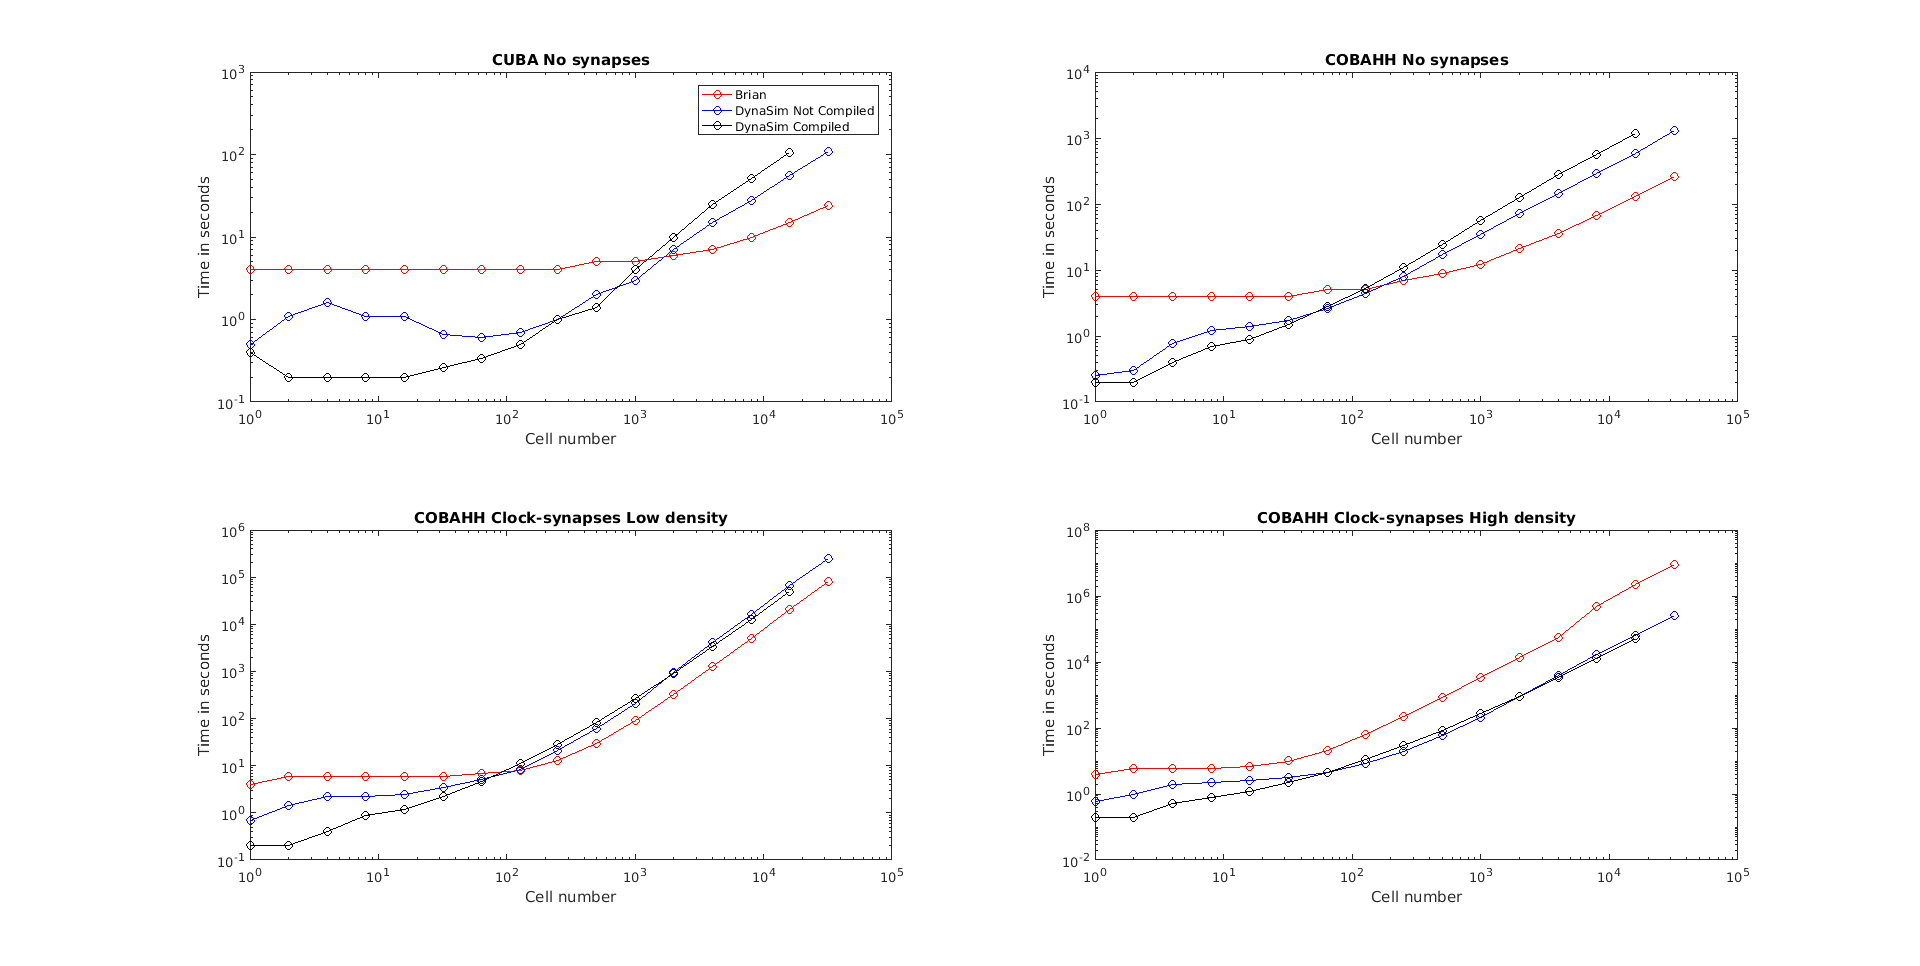
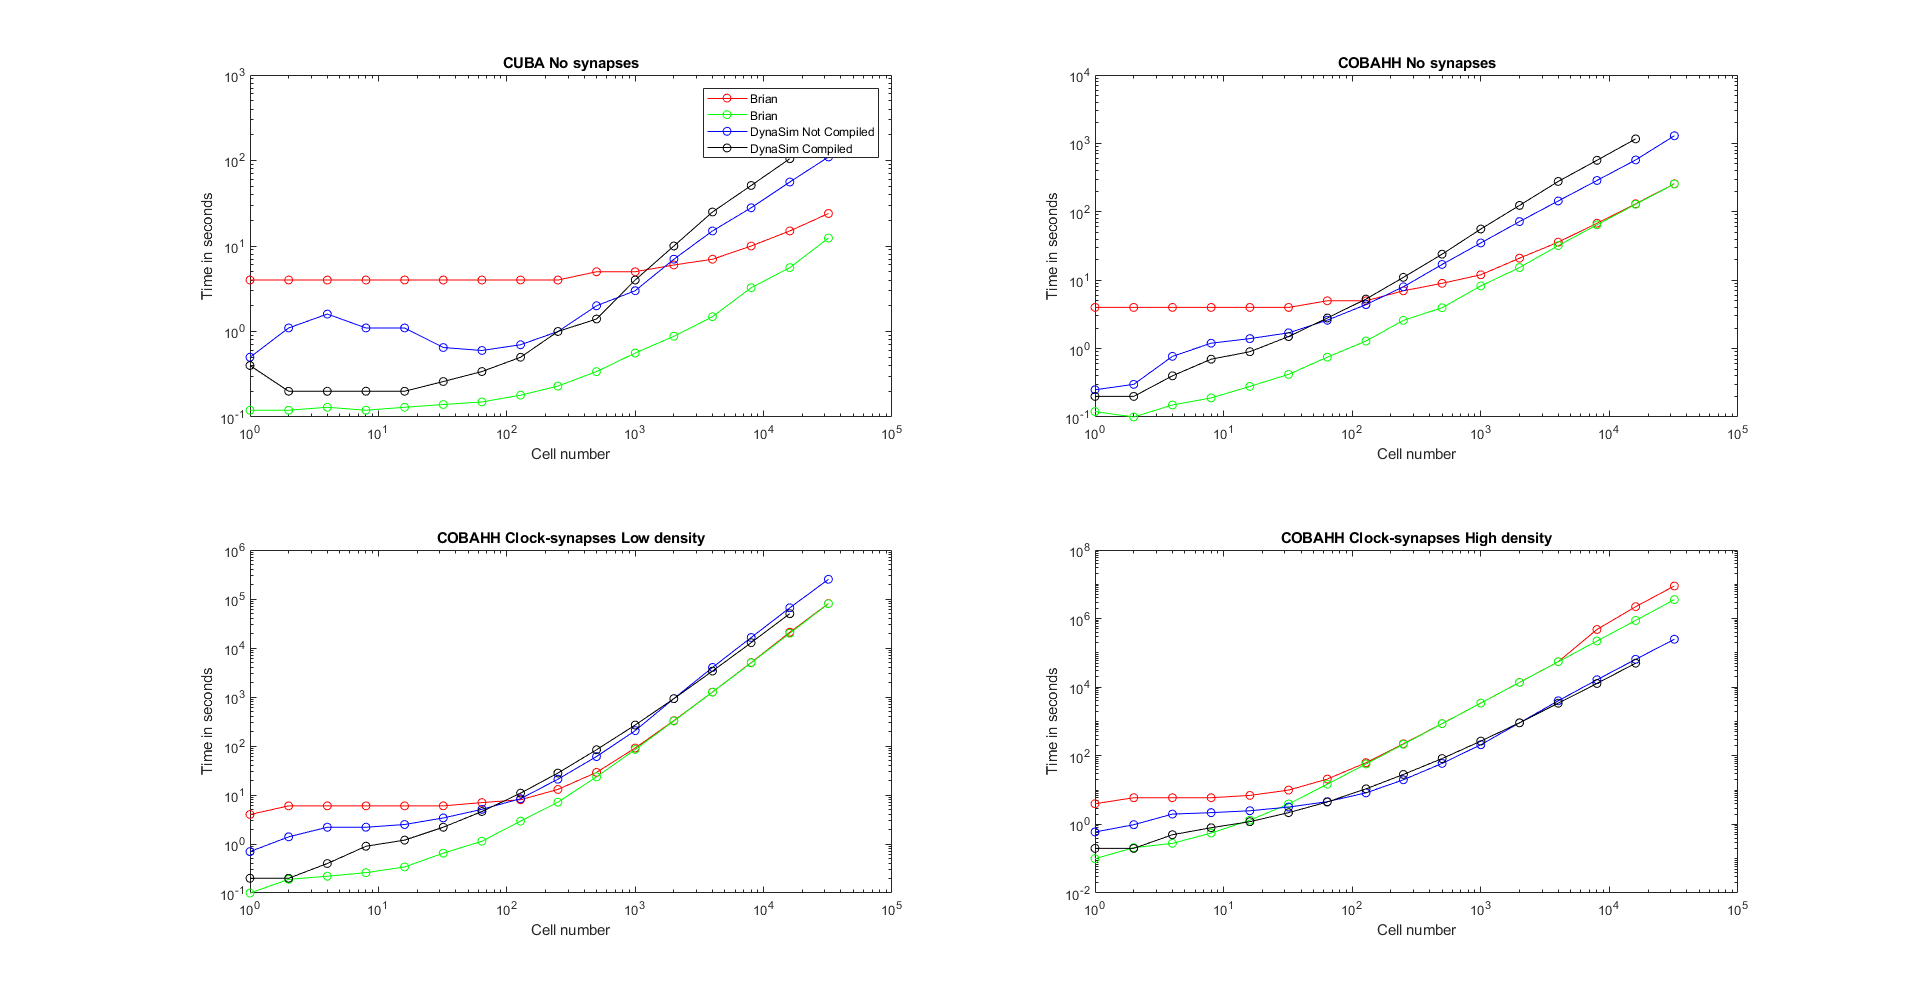
Add Brian2 compiled analysis

diff --git a/analyze_data.m b/analyze_data.m
@@ -5,6 +5,7 @@ f1 = figure(1);
 subplot 221
 loglog(data.CellCount, data.BrianCUBA_Nosyn,'-or','DisplayName','Brian')
 hold on
+loglog(data.CellCount, data.BrianCUBA_Nosyn_Compiled,'-og','DisplayName','Brian')
 loglog(data.CellCount, data.DynaCUBA_NosynNocompile, '-ob','DisplayName','DynaSim Not Compiled')
 loglog(data.CellCount, data.DynaCUBA_NosynCompile, '-ok','DisplayName','DynaSim Compiled')
 hold off
@@ -16,6 +17,7 @@ legend('show')
 subplot 222
 loglog(data.CellCount, data.BrianCOBAHH_Nosyn, '-or')
 hold on
+loglog(data.CellCount, data.BrianCOBAHH_Nosyn_Compiled, '-og')
 loglog(data.CellCount, data.DynaCOBAHH_NosynNocompile, '-ob')
 loglog(data.CellCount, data.DynaCOBAHH_NosynCompile, '-ok')
 hold off
@@ -26,6 +28,7 @@ title('COBAHH No synapses')
 subplot 223
 loglog(data.CellCount, data.BrianCOBAHH_ClocksynLodensEstimated, '-or')
 hold on
+loglog(data.CellCount, data.BrianCOBAHH_ClocksynLodensEstimated_Compiled, '-og')
 loglog(data.CellCount, data.DynaCOBAHH_ClocksynLodensNocompile, '-ob')
 loglog(data.CellCount, data.DynaCOBAHH_ClocksynLodensCompile, '-ok')
 hold off
@@ -37,6 +40,7 @@ title('COBAHH Clock-synapses Low density')
 subplot 224
 loglog(data.CellCount, data.BrianCOBAHH_ClocksynHidensEstimated, '-or')
 hold on
+loglog(data.CellCount, data.BrianCOBAHH_ClocksynHidensEstimated_Compiled, '-og')
 loglog(data.CellCount, data.DynaCOBAHH_ClocksynHidensNocompile, '-ob')
 loglog(data.CellCount, data.DynaCOBAHH_ClocksynHidensCompile, '-ok')
 hold off
